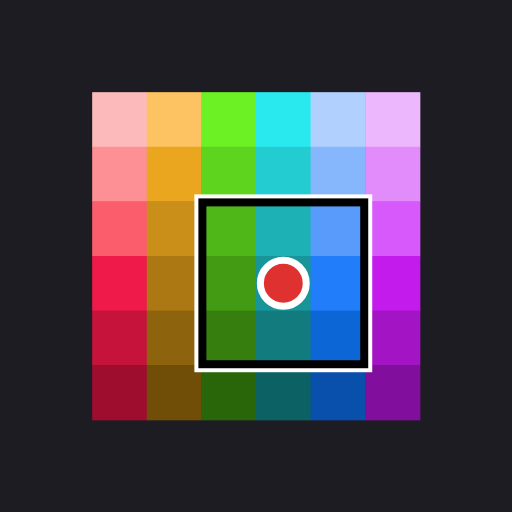
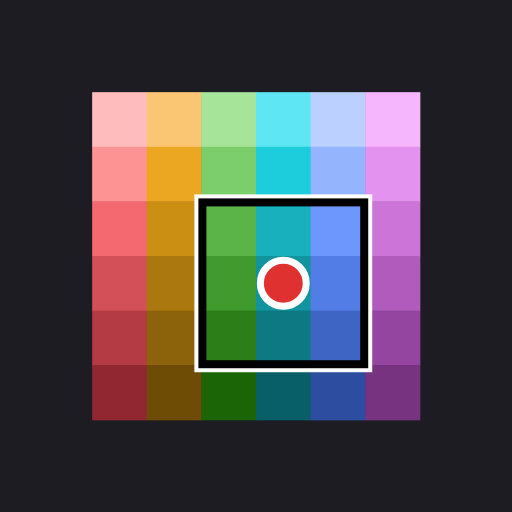
Bigger touch targets; smoother board colours with gaps between squares

Changed region(s): [[0.5938, 0.375, 0.8438, 0.8438], [0.375, 0.1562, 0.625, 0.625], [0.1562, 0.5, 0.3125, 0.8438]]

diff --git a/style.css b/style.css
@@ -29,23 +29,24 @@ input { -webkit-user-select: text; user-select: text; }
 
 header {
   display: flex; align-items: center; gap: 10px;
-  padding: 6px 12px; flex: none;
+  padding: 8px 14px; flex: none;
 }
-h1 { font-size: 18px; margin: 0; white-space: nowrap; }
-#round-info { color: var(--muted); font-size: 15px; white-space: nowrap; }
+h1 { font-size: 20px; margin: 0; white-space: nowrap; }
+#round-info { color: var(--muted); font-size: 17px; white-space: nowrap; }
 .grow { flex: 1; }
 
 .ctl {
-  font: inherit; font-size: 15px; color: var(--text);
-  background: var(--panel2); border: 1px solid #4a4a57; border-radius: 10px;
-  padding: 8px 14px; min-height: 40px; cursor: pointer;
+  font: inherit; font-size: 18px; color: var(--text);
+  background: var(--panel2); border: 1px solid #4a4a57; border-radius: 12px;
+  padding: 10px 20px; min-height: 54px; min-width: 54px; cursor: pointer;
   display: inline-flex; align-items: center; justify-content: center; gap: 8px;
   white-space: nowrap;
 }
 .ctl:disabled { opacity: 0.4; cursor: default; }
+.ctl:not(:disabled):active { transform: scale(0.96); filter: brightness(1.15); }
 .ctl.primary { background: var(--accent); border-color: var(--accent); color: #0b1a29; font-weight: 600; }
 .ctl.danger { background: var(--danger); border-color: var(--danger); color: #fff; font-weight: 600; }
-.ctl.big { font-size: 18px; padding: 12px 22px; min-height: 52px; }
+.ctl.big { font-size: 21px; padding: 14px 30px; min-height: 68px; border-radius: 14px; }
 
 .version {
   display: inline-flex; align-items: center; gap: 5px;
@@ -63,24 +64,26 @@ h1 { font-size: 18px; margin: 0; white-space: nowrap; }
 
 .screen { flex: 1; min-height: 0; }
 #setup { overflow-y: auto; padding: 8px 12px 24px; }
-.setup-card { max-width: 560px; margin: 0 auto; }
+.setup-card { max-width: 620px; margin: 0 auto; }
 .setup-card h2 { margin: 8px 0 4px; }
 .hint { color: var(--muted); font-size: 14px; margin: 4px 0 12px; }
-#player-list { list-style: none; padding: 0; margin: 0 0 10px; display: grid; gap: 8px; }
-#player-list li { display: flex; gap: 8px; align-items: center; }
+#player-list { list-style: none; padding: 0; margin: 0 0 12px; display: grid; gap: 10px; }
+#player-list li { display: flex; gap: 10px; align-items: center; }
 #player-list input {
-  flex: 1; min-width: 0; font: inherit; font-size: 17px; color: var(--text);
-  background: var(--panel); border: 1px solid #4a4a57; border-radius: 10px; padding: 10px 12px;
+  flex: 1; min-width: 0; font: inherit; font-size: 19px; color: var(--text);
+  background: var(--panel); border: 1px solid #4a4a57; border-radius: 12px; padding: 0 14px; height: 56px;
 }
-.color-btn { width: 44px; height: 44px; flex: none; border-radius: 50%; border: 3px solid #fff; cursor: pointer; }
-.ctl.remove, .ctl.move { width: 44px; padding: 0; }
-.times { display: flex; align-items: center; gap: 12px; margin: 18px 0 4px; flex-wrap: wrap; }
-.seg { display: inline-flex; border: 1px solid #4a4a57; border-radius: 10px; overflow: hidden; }
+.color-btn { width: 56px; height: 56px; flex: none; border-radius: 50%; border: 3px solid #fff; cursor: pointer; }
+.ctl.remove, .ctl.move { width: 56px; height: 56px; padding: 0; font-size: 22px; }
+.times { display: flex; align-items: center; gap: 14px; margin: 20px 0 6px; flex-wrap: wrap; font-size: 18px; }
+.seg { display: inline-flex; border: 1px solid #4a4a57; border-radius: 12px; overflow: hidden; }
 .seg button {
-  font: inherit; color: var(--text); background: var(--panel); border: 0; padding: 9px 18px; cursor: pointer;
+  font: inherit; font-size: 18px; color: var(--text); background: var(--panel); border: 0;
+  min-height: 54px; padding: 0 26px; cursor: pointer;
 }
 .seg button[aria-checked="true"] { background: var(--accent); color: #0b1a29; font-weight: 600; }
-#start { width: 100%; margin-top: 8px; }
+#start { width: 100%; margin-top: 10px; }
+#add-player { width: 100%; }
 
 /* ---------- game ---------- */
 
@@ -96,15 +99,22 @@ h1 { font-size: 18px; margin: 0; white-space: nowrap; }
   display: grid;
   grid-template-columns: calc(var(--cell) * 0.7) repeat(30, var(--cell)) calc(var(--cell) * 0.7);
   grid-template-rows: calc(var(--cell) * 0.7) repeat(16, var(--cell)) calc(var(--cell) * 0.7);
-  background: #fff; padding: 2px; border-radius: 6px;
+  background: #0e0e12; padding: 4px; border-radius: 14px;
+  box-shadow: 0 0 0 1px #2c2c36, 0 10px 30px rgba(0,0,0,.45);
 }
 .lbl {
   display: flex; align-items: center; justify-content: center;
-  color: #333; font-size: calc(var(--cell) * 0.38); font-weight: 600;
+  color: #8b8b9a; font-size: calc(var(--cell) * 0.36); font-weight: 600;
+  font-variant-numeric: tabular-nums;
 }
-.cell { position: relative; cursor: pointer; }
+/* The transparent border lets the dark board show through as a thin gap round each square. */
+.cell {
+  position: relative; cursor: pointer;
+  border: max(1px, calc(var(--cell) * 0.055)) solid transparent; background-clip: padding-box;
+  border-radius: calc(var(--cell) * 0.09);
+}
 .cell.target::after {
-  content: ""; position: absolute; inset: 18%;
+  content: ""; position: absolute; inset: 14%;
   border: 3px solid #fff; border-radius: 50%; box-shadow: 0 0 0 2px #000, inset 0 0 0 2px #000;
 }
 
@@ -127,42 +137,42 @@ h1 { font-size: 18px; margin: 0; white-space: nowrap; }
 /* Absolutely positioned grid children take their box from grid-row/column but don't take
    part in auto-placement, so the squares and labels stay where they are. */
 .frame { position: absolute; inset: 0; z-index: 1; pointer-events: none; }
-.frame.inner { border: 4px solid #000; outline: 2px solid #fff; z-index: 5; }
-.frame.outer { border: 2px dashed #000; outline: 1px dashed #fff; }
+.frame.inner { border: 4px solid #fff; border-radius: 6px; box-shadow: 0 0 0 2px #000, inset 0 0 0 2px #000; z-index: 5; }
+.frame.outer { border: 2px dashed #fff; border-radius: 8px; box-shadow: 0 0 0 1px rgba(0,0,0,.6); }
 
 #bar {
   flex: none; display: flex; align-items: center; gap: 12px;
-  margin: 8px 12px 0; padding: 8px 12px; min-height: 64px;
-  background: var(--panel); border-radius: 12px;
+  margin: 10px 14px 0; padding: 10px 14px; min-height: 76px;
+  background: var(--panel); border-radius: 16px;
 }
 #prompt { flex: 1; min-width: 0; }
-#prompt-text { font-size: 18px; }
-#prompt-text small { color: var(--muted); font-size: 14px; }
-#cues { color: var(--muted); font-size: 15px; margin-top: 2px; display: flex; align-items: center; flex-wrap: wrap; gap: 4px; }
+#prompt-text { font-size: 21px; }
+#prompt-text small { color: var(--muted); font-size: 16px; }
+#cues { color: var(--muted); font-size: 17px; margin-top: 2px; display: flex; align-items: center; flex-wrap: wrap; gap: 4px; }
 #cues:empty { display: none; }
 #cues q { color: var(--text); font-weight: 600; }
 #cues input {
-  font: inherit; font-size: 16px; color: var(--text); background: var(--bg);
-  border: 1px solid #4a4a57; border-radius: 8px; padding: 6px 10px; width: min(320px, 100%);
+  font: inherit; font-size: 18px; color: var(--text); background: var(--bg);
+  border: 1px solid #4a4a57; border-radius: 10px; padding: 0 12px; height: 48px; width: min(340px, 100%);
 }
-#actions { display: flex; gap: 8px; flex-wrap: wrap; justify-content: flex-end; }
-.dot { display: inline-block; width: 14px; height: 14px; border-radius: 50%; margin-right: 6px; border: 2px solid #fff; vertical-align: -1px; }
-.swatch { display: inline-block; width: 22px; height: 22px; border-radius: 5px; border: 2px solid #fff; vertical-align: -5px; margin: 0 6px 0 2px; }
+#actions { display: flex; gap: 10px; flex-wrap: wrap; justify-content: flex-end; }
+.dot { display: inline-block; width: 18px; height: 18px; border-radius: 50%; margin-right: 6px; border: 2px solid #fff; vertical-align: -1px; }
+.swatch { display: inline-block; width: 26px; height: 26px; border-radius: 6px; border: 2px solid #fff; vertical-align: -6px; margin: 0 6px 0 2px; }
 
 #scores {
-  flex: none; list-style: none; margin: 8px 12px 10px; padding: 0;
-  display: flex; flex-wrap: wrap; gap: 6px; justify-content: center;
+  flex: none; list-style: none; margin: 10px 14px 12px; padding: 0;
+  display: flex; flex-wrap: wrap; gap: 8px; justify-content: center;
 }
 #scores li {
   display: flex; align-items: center; gap: 6px; position: relative;
   background: var(--panel); border: 2px solid transparent; border-radius: 999px;
-  padding: 3px 12px 3px 4px; font-size: 15px;
+  padding: 4px 14px 4px 4px; font-size: 18px;
 }
 #scores li.active { border-color: var(--accent); background: #1d3a52; }
 #scores li.giver { border-color: #f59e0b; }
-.cone.chip { position: static; width: 28px; height: 28px; font-size: 11px; flex: none; --cell: 28px; }
+.cone.chip { position: static; width: 34px; height: 34px; font-size: 13px; flex: none; --cell: 34px; }
 .pname { max-width: 120px; overflow: hidden; text-overflow: ellipsis; white-space: nowrap; }
-.tag { font-size: 11px; background: #f59e0b; color: #111; border-radius: 6px; padding: 0 5px; font-weight: 700; }
+.tag { font-size: 13px; background: #f59e0b; color: #111; border-radius: 6px; padding: 0 5px; font-weight: 700; }
 .gain { color: #69db7c; font-weight: 700; }
 
 /* ---------- cover (private screens) ---------- */
@@ -174,8 +184,8 @@ h1 { font-size: 18px; margin: 0; white-space: nowrap; }
 }
 .cover.final { background: rgba(17, 17, 22, 0.92); }
 .cover-box { text-align: center; max-width: 720px; width: 100%; }
-.cover-box h2 { font-size: 28px; font-weight: 500; margin: 8px 0 12px; }
-.cover-box p { font-size: 18px; }
+.cover-box h2 { font-size: 32px; font-weight: 500; margin: 8px 0 12px; }
+.cover-box p { font-size: 21px; }
 .card-grid { display: grid; grid-template-columns: repeat(2, 1fr); gap: 16px; margin: 20px auto; max-width: 520px; }
 .card-choice {
   display: flex; flex-direction: column; align-items: center; gap: 8px;
@@ -185,13 +195,13 @@ h1 { font-size: 18px; margin: 0; white-space: nowrap; }
 .card-choice.chosen { border-color: #fff; background: var(--panel2); }
 .big-swatch { display: block; width: 100%; aspect-ratio: 3 / 2; border-radius: 10px; }
 .cover-box > .big-swatch { width: min(320px, 70vw); margin: 0 auto; }
-.coord { font-size: 26px; font-weight: 700; letter-spacing: 1px; }
+.coord { font-size: 28px; font-weight: 700; letter-spacing: 1px; }
 .dlg-actions { display: flex; gap: 10px; justify-content: center; flex-wrap: wrap; margin-top: 16px; }
 
 .final-list { list-style: none; padding: 0; margin: 12px auto; max-width: 420px; display: grid; gap: 6px; }
 .final-list li {
   display: flex; align-items: center; gap: 10px; background: var(--panel);
-  border-radius: 12px; padding: 6px 14px 6px 6px; font-size: 18px;
+  border-radius: 14px; padding: 8px 16px 8px 8px; font-size: 21px;
 }
 .final-list li .pname { flex: 1; text-align: left; max-width: none; }
 .final-list li.winner { background: #5c4813; }
@@ -200,14 +210,14 @@ h1 { font-size: 18px; margin: 0; white-space: nowrap; }
 
 dialog {
   background: var(--panel); color: var(--text); border: 0; border-radius: 16px;
-  padding: 20px 24px; max-width: min(560px, 92vw);
+  padding: 24px 28px; max-width: min(620px, 92vw); font-size: 18px;
 }
 dialog::backdrop { background: rgba(0,0,0,.6); }
 dialog h2 { margin: 0 0 8px; }
 dialog li { margin: 6px 0; }
 #toast {
   position: fixed; left: 50%; bottom: 120px; transform: translateX(-50%); z-index: 60;
-  background: #000; color: #fff; padding: 10px 16px; border-radius: 10px; font-size: 16px;
+  background: #000; color: #fff; padding: 14px 20px; border-radius: 12px; font-size: 19px;
 }
 
 /* Portrait or small screens: tighter bar */

diff --git a/board.js b/board.js
@@ -2,17 +2,26 @@
 //
 // The real board is 30 columns (1-30) by 16 rows (A-P): hue changes along a row and
 // rows run from pale at the top to dark at the bottom. These colours are an
-// approximation built in OKLCH: each row has one lightness, each column one hue, and
-// the chroma is pushed as far as sRGB allows, so the board is as vivid as a screen gets.
+// approximation built in OKLCH: each row has one lightness and each column one hue.
+// - Hues are spaced so neighbouring columns differ by the same amount to the eye
+//   (equal steps in OKLab at a mid row), not by equal degrees, which wasted columns on
+//   near-identical greens and teals and jumped through the reds.
+// - Chroma follows a smooth curve per row (soft pastels at the top, richest in the
+//   middle rows, muted at the bottom), capped by what sRGB can show. Without the cap
+//   some hues (cyan, magenta) went neon while their neighbours couldn't follow.
 
 export const COLS = 30;
 export const ROWS = 16;
 export const ROW_NAMES = "ABCDEFGHIJKLMNOP";
 
-const L_TOP = 0.93;
-const L_BOTTOM = 0.33;
-const HUE_START = 18; // a pinkish red, so column 1 sits next to column 30 on the colour wheel
-const CHROMA_SHARE = 0.96; // just inside the gamut edge, so neighbouring rows stay distinct
+const L_TOP = 0.94;
+const L_BOTTOM = 0.32;
+const HUE_START = 20; // a pinkish red, so column 1 sits next to column 30 on the colour wheel
+const C_PEAK = 0.17; // chroma of the richest row
+const C_TOP = 0.07; // chroma of the palest row
+const C_BOTTOM = 0.11; // chroma of the darkest row
+const PEAK_ROW = 0.42; // where (0 = top, 1 = bottom) the board is most colourful
+const GAMUT_SHARE = 0.97; // stay a little inside the sRGB edge
 
 export const cellIndex = (row, col) => row * COLS + col;
 export const rowOf = (cell) => Math.floor(cell / COLS);
@@ -48,17 +57,60 @@ function toHex(rgb) {
   );
 }
 
-function cellColour(row, col) {
-  const L = L_TOP + ((L_BOTTOM - L_TOP) * row) / (ROWS - 1);
-  const h = (HUE_START + (360 * col) / COLS) % 360;
+function maxChroma(L, h) {
   let lo = 0;
   let hi = 0.4;
-  for (let i = 0; i < 24; i++) {
+  for (let i = 0; i < 22; i++) {
     const mid = (lo + hi) / 2;
     if (inGamut(oklchToLinear(L, mid, h))) lo = mid;
     else hi = mid;
   }
-  return { hex: toHex(oklchToLinear(L, lo * CHROMA_SHARE, h)), L };
+  return lo * GAMUT_SHARE;
+}
+
+// Smooth bump: C_TOP at t = 0, C_PEAK at PEAK_ROW, C_BOTTOM at t = 1.
+function rowChroma(t) {
+  const [edge, u] = t < PEAK_ROW ? [C_TOP, t / PEAK_ROW] : [C_BOTTOM, (1 - t) / (1 - PEAK_ROW)];
+  const s = Math.sin((u * Math.PI) / 2);
+  return edge + (C_PEAK - edge) * s;
+}
+
+const chromaAt = (L, h, C) => Math.min(C, maxChroma(L, h));
+
+// Column hues: walk round the wheel in small steps at a mid row, measure the OKLab
+// distance travelled, and put the 30 columns at equal distances along that path.
+const HUES = (() => {
+  const L = 0.66;
+  const C = rowChroma(PEAK_ROW + 0.1);
+  const steps = 720;
+  const lab = (h) => {
+    const c = chromaAt(L, h, C);
+    return [L, c * Math.cos((h * Math.PI) / 180), c * Math.sin((h * Math.PI) / 180)];
+  };
+  const len = [0];
+  let prev = lab(HUE_START);
+  for (let i = 1; i <= steps; i++) {
+    const cur = lab(HUE_START + (360 * i) / steps);
+    len.push(len[i - 1] + Math.hypot(cur[0] - prev[0], cur[1] - prev[1], cur[2] - prev[2]));
+    prev = cur;
+  }
+  const total = len[steps];
+  const hues = [];
+  let j = 0;
+  for (let c = 0; c < COLS; c++) {
+    const want = (total * c) / COLS;
+    while (len[j + 1] < want) j++;
+    const f = (want - len[j]) / (len[j + 1] - len[j] || 1);
+    hues.push((HUE_START + (360 * (j + f)) / steps) % 360);
+  }
+  return hues;
+})();
+
+function cellColour(row, col) {
+  const t = row / (ROWS - 1);
+  const L = L_TOP + (L_BOTTOM - L_TOP) * t;
+  const h = HUES[col];
+  return { hex: toHex(oklchToLinear(L, chromaAt(L, h, rowChroma(t)), h)), L };
 }
 
 // COLOURS[cell] = "#rrggbb"; LIGHT[cell] = true when dark text reads better on it.

diff --git a/version.js b/version.js
@@ -1,4 +1,4 @@
 // Set automatically by the pre-commit hook (~/projects/pages-common) on every commit.
 // update.js compares these with the live file on GitHub Pages to show whether an update is available.
-export const VERSION = "2026-11-21T05:31:55Z";
[1 lines of base64/hex data omitted]
+export const VERSION = "2026-11-21T05:39:27Z";
[1 lines of base64/hex data omitted]

diff --git a/app.js b/app.js
@@ -202,7 +202,7 @@ function buildBoard() {
     for (let c = 0; c < COLS; c++) {
       const cell = r * COLS + c;
       const d = el("div", { className: "cell" });
-      d.style.background = COLOURS[cell];
+      d.style.backgroundColor = COLOURS[cell]; // not `background`, which would reset background-clip
       d.dataset.cell = cell;
       cellEls.push(d);
       boardEl.append(d);
